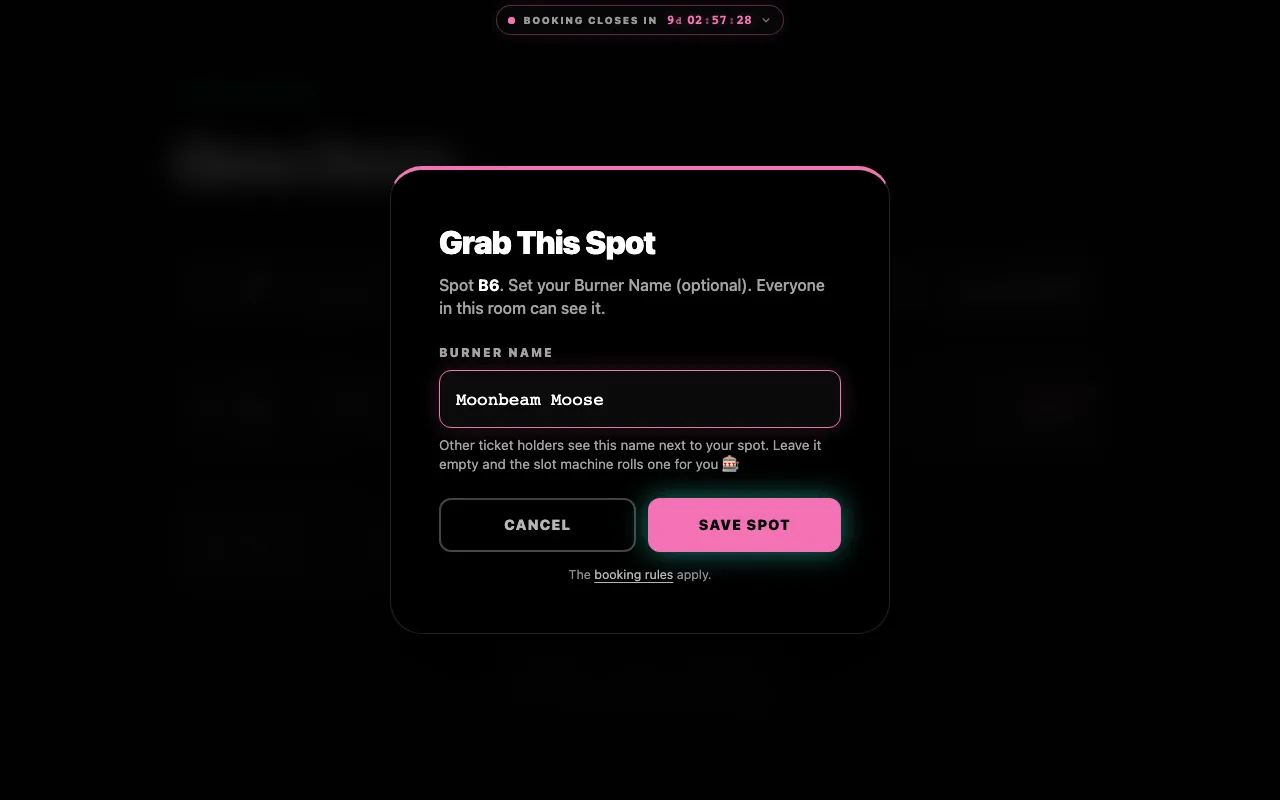
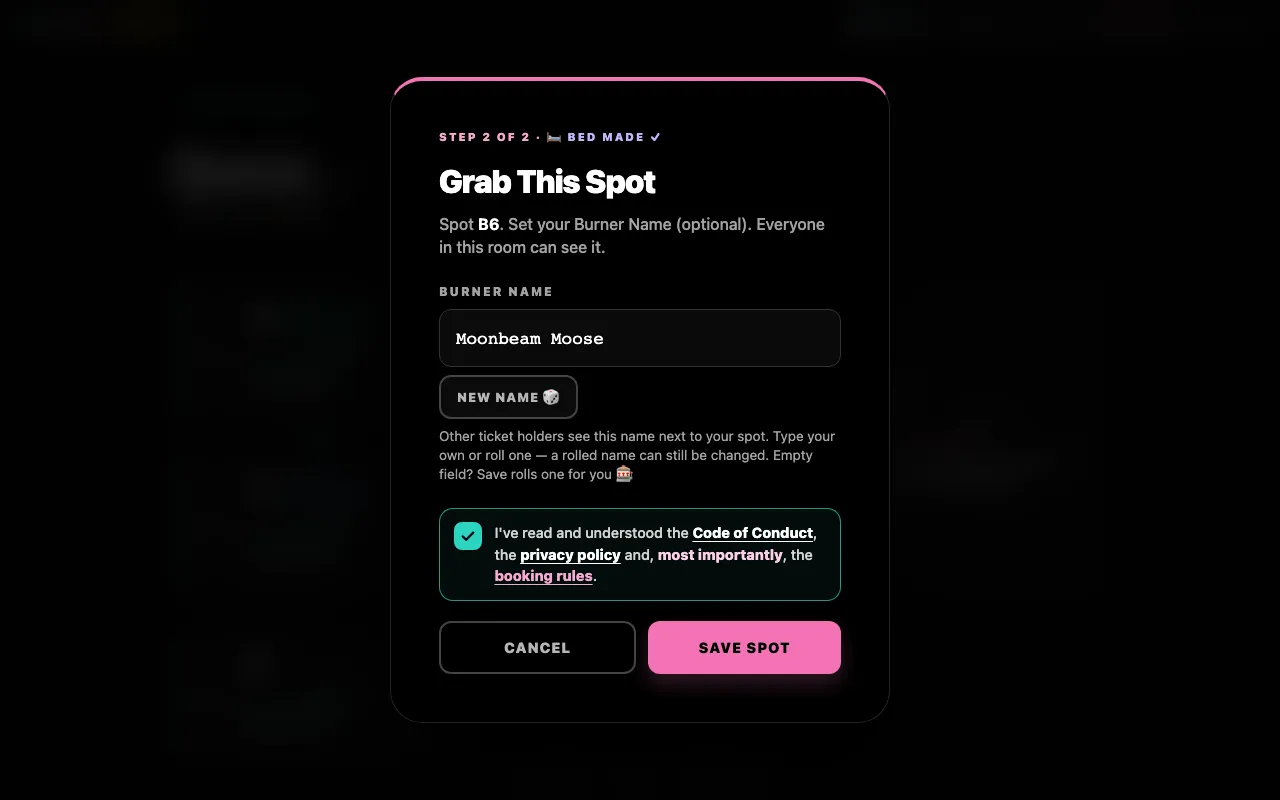
docs: make your bed and the rules tick in the guides
Guest guide: a "Bring your own bedding" note at the top, the flowchart, new
step 5 (make your bed) and step 6 (name, rules tick, Save Spot), the roulette's
check, the bedding line in confirmations and on the pass, and screenshots of
both steps. FAQ: what to bring, why every booking asks, and the reload message.
Admin: the bedding box in e-mails and Telegram (Message texts), the strip on
the booking pass. Reference: routes and the server-side check. README: feature
row.

Changed region(s): [[0.3125, 0.1562, 0.6875, 0.875], [0.3125, 0.0938, 0.6875, 0.125], [0.375, 0.0, 0.5938, 0.0312]]

diff --git a/docs/guide/booking.md b/docs/guide/booking.md
@@ -4,6 +4,9 @@ All you need is the **ticket code** from your Hamburn ticket. There is no accoun
 
 Beds come with **Indoor memberships** only. Camper memberships (camper or tent) don't include a bed and don't need CozyNights.
 
+> [!IMPORTANT] Bring your own bedding
+> Pillow and blanket are provided. Bring your own covers: a **bed sheet** for the mattress, a **duvet cover** for the blanket and a **pillowcase**. A sleeping bag is fine instead of the duvet cover; the bed sheet and the pillowcase are still a must. Every booking reminds you: you [make your bed](#make-your-bed) before the spot is yours.
+
 > [!NOTE] Booking opens and closes at set times
 > Before booking opens, the start page and the (still blurred) map count down to the start; <kbd>🗺 LOOK AROUND</kbd> lets you open houses and rooms already. You can already sign in with your code. While booking is open, the top bar of every booking page counts down to the close; after that, spots are final.
 
@@ -13,8 +16,8 @@ Beds come with **Indoor memberships** only. Camper memberships (camper or tent) 
 flowchart LR
   code["🎫 Ticket code"] --> map["🗺 Camp map"]
   map --> pick["🛖 House → 🚪 Room<br/>→ 🛏 free spot"]
-  pick --> name["✍ Burner name<br/>(optional)"] --> done["✅ Your Spot"]
-  map --> roulette["🎰 Destiny<br/>Roulette"] --> done
+  pick --> bed["🧺 Make your bed"] --> name["✍ Burner name (optional)<br/>☑ the rules"] --> done["✅ Your Spot"]
+  map --> roulette["🎰 Destiny<br/>Roulette"] --> bed
 ```
 
 ## Step by step
@@ -53,11 +56,23 @@ flowchart LR
 
    ![Room page with free, occupied and reserved spots](../assets/screenshots/guest-room-available.webp)
 
-5. **Pick a burner name and book**
+5. <a id="make-your-bed"></a>**Make your bed**
 
-   Type the name other guests should see on your bed (up to 80 characters), or press <kbd>Roll a name 🎲</kbd> and let the slot machine pick one (something like *Dusty Unicorn, Keeper of the Moop #562*). A rolled name lands in the field, where you can still change it; <kbd>New Name 🎲</kbd> rolls again. Leave the field empty and press <kbd>Save Spot</kbd> and the machine rolls one for you first. <kbd>Save Spot</kbd> books the spot. The same dialog opens when you tap your own spot later to change the name.
+   The booking window starts with your bed. The hostel's pillow, blanket and mattress lie on it bare, and your three covers wait in **Your bag**: a bed sheet, a duvet cover and a pillowcase. Tap each cover, or drag it onto the bed: the duvet cover goes on the blanket, the pillowcase on the pillow, and the sheet slips under everything. Drop one on the wrong piece and it hops back into the bag with a hint.
 
-   ![Booking dialog with the burner name field](../assets/screenshots/guest-booking-modal.webp)
+   When the bed is made, the window lists what to pack and <kbd>I'll pack them 🤝</kbd> takes you on. Pack them for real: pillow and blanket are provided, the covers are not. A sleeping bag is fine instead of the duvet cover; the bed sheet and the pillowcase are still a must.
+
+   ![Booking window, step 1: the bare bed and the three covers in your bag](../assets/screenshots/guest-booking-bed.webp)
+
+6. **Pick a burner name, tick the rules and book**
+
+   Type the name other guests should see on your bed (up to 80 characters), or press <kbd>Roll a name 🎲</kbd> and let the slot machine pick one (something like *Dusty Unicorn, Keeper of the Moop #562*). A rolled name lands in the field, where you can still change it; <kbd>New Name 🎲</kbd> rolls again. Leave the field empty and press <kbd>Save Spot</kbd> and the machine rolls one for you first.
+
+   Below the name, tick the box: *I've read and understood the Code of Conduct, the privacy policy and, most importantly, the booking rules.* The three links open in a new tab, so the booking window stays as it is. Without the tick, <kbd>Save Spot</kbd> waits and says why. With it, <kbd>Save Spot</kbd> books the spot.
+
+   ![Booking window, step 2: burner name, the rules box and Save Spot](../assets/screenshots/guest-booking-modal.webp)
+
+   Every new spot asks for both again, also after a release or a respin. Only when a booking didn't go through (someone was faster), the next spot you pick skips the bed and keeps the tick, until you reload the page. Nothing about it is stored. Tapping your own spot later to change its name opens just the name and <kbd>Save Spot</kbd>.
 
 </div>
 
@@ -121,7 +136,7 @@ Then the burner name that goes with the spot:
 - If your ticket already has a burner name, it is filled in. Keep it or change it.
 - Type your own name into **Your burner name**, or press <kbd>🎲</kbd> to roll one (something like *Cosmic Coyote #562*). A rolled name can still be changed.
 - <kbd>SPIN AGAIN 🎰</kbd> spins for another spot and keeps the name.
-- <kbd>BOOK IT 🌵</kbd> books the spot. With the name field empty, the first tap rolls a name; the next one books.
+- <kbd>BOOK IT 🌵</kbd> opens the same check as on the room page, over the machine: [make your bed](#make-your-bed), then *One last tick* for the rules, and <kbd>BOOK IT 🌵</kbd> in that window books the spot. With the name field empty, the first tap rolls a name; the next one opens the check.
 
 *Destiny Fulfilled!* Fireworks go up and your [booking pass](#your-booking-pass) prints out on the card, with <kbd>Visit My Room</kbd> and <kbd>Back to Map</kbd>.
 
@@ -165,7 +180,7 @@ Booking, moving and releasing a spot only work during Live Booking; the burner n
 
 When your spot is booked, changes or is released, CozyNights sends an e-mail to the **address of your ticket**. You don't enter it anywhere; your room page shows where confirmations go, shortened like `m•••@example.com`. It usually arrives within a minute; right after booking opens, when many people book at once, it can take a few minutes. If the crew ever has to change the camp layout and your spot goes with it, you hear about it the same way, so you can pick a new one.
 
-Every e-mail that shows your spot also brings your [booking pass](#your-booking-pass): its QR code as a picture right inside the e-mail, its link and its short code. That e-mail is all you need to show at arrival. Some mail apps also list the picture as an attachment; the link works just as well.
+Every e-mail that shows your spot also brings your [booking pass](#your-booking-pass): its QR code as a picture right inside the e-mail, its link and its short code. That e-mail is all you need to show at arrival. Some mail apps also list the picture as an attachment; the link works just as well. Right under the spot, a highlighted line says what to pack: your bed sheet, duvet cover and pillowcase. Telegram messages say it too.
 
 **Your room page** is the room that holds your spot: the room link in every confirmation takes you there, and so does <kbd>Visit My Room</kbd> on the roulette page. Every other house and room shows a *You already have a spot* note with your spot as a small ticket; tapping it opens your booking pass.
 
@@ -175,7 +190,7 @@ Once you hold a spot, your room page shows <kbd>🎫 Show booking pass</kbd>, ev
 
 <p align="center"><img src="../assets/screenshots/guest-pass.webp" alt="A booking pass on a phone: house, room, spot, burner name, QR code and pass code" width="300" /></p>
 
-<kbd>Save QR code</kbd> stores the QR code as a picture (on a phone it goes to your photos), <kbd>Camp map</kbd> takes you back to the map. Before the check-in the pass stays valid when you move to another spot; the crew always sees the spot your ticket holds right now. Release your spot, and the same link says that your ticket holds no spot at the moment. The pass code is not your ticket code: it can only show your booking, never change it.
+Under the QR code, **Bring your own covers** lists the bed sheet, the duvet cover and the pillowcase, for the moment you pack. <kbd>Save QR code</kbd> stores the QR code as a picture (on a phone it goes to your photos), <kbd>Camp map</kbd> takes you back to the map. Before the check-in the pass stays valid when you move to another spot; the crew always sees the spot your ticket holds right now. Release your spot, and the same link says that your ticket holds no spot at the moment. The pass code is not your ticket code: it can only show your booking, never change it.
 
 ### Updates on Telegram
 

diff --git a/docs/admin/notifications.md b/docs/admin/notifications.md
@@ -42,6 +42,7 @@ A guest hears from CozyNights when their spot changes:
 
 - **One message per change.** A move is one "changed" message, never "released" plus "booked". Changes within about ten seconds are combined, and two messages about the same ticket are at least two minutes apart. A guest who gives up their spot on the roulette (✨ *Leave No Trace & Respin*) keeps that message back for up to ten minutes, so the new spot arrives as one **changed** message; if they leave without booking a new one, the release is sent after all. A switch back to Staging with *Don't notify the guests* ticked silences the tickets whose spots it releases, a held message included. A ticket that already has no spot is not part of that release: its held message still reports the release when the hold runs out.
 - **The spot, and what kind of bed it is.** Every e-mail that shows the spot lists *House*, *Room* and *Spot*, and — when the crew wrote them down on the [camp layout](./camp-layout) — *Bed* (the kind of bed and, for a bunk bed, where the other level is: *Upper bunk · above B1*) and *Features* (what its room and its house offer, minus what doesn't reach the spot: *🔥 Heated · 🤫 Quiet zone*). Telegram messages carry the same as one 🛏 line right under the spot, the bot's `/pass` reply included; the line is the box *The bed* under *Telegram · in several messages* on <kbd>✉ Messages</kbd>. A spot nobody described gets neither the rows nor the line.
+- **What to bring, in every message that shows the spot.** Pillow and blanket are provided; the guest brings a bed sheet, a duvet cover and a pillowcase (a sleeping bag may replace the duvet cover). E-mails that show the spot say it in a highlighted box right under it (and its QR picture): booked, changed, swapped, passed on, booked by the crew. Telegram messages that show the spot carry it as a 🧺 line above the pass, the bot's *connected* message included (its `/pass` reply is just the pass). These are the boxes *Bedding to bring* under *E-mail · in every message* and *Telegram · in several messages* on <kbd>✉ Messages</kbd>; the booking window and the booking pass say the same (see [Booking a bed](../guide/booking#make-your-bed)).
 - **E-mail goes to the address of the ticket.** Guests never type an address: it comes with the [ticket import](#ticket-codes-with-e-mail-addresses). On their room page they see where confirmations go, shortened to `m•••@example.com`. Every e-mail that shows the spot offers what this server can do on top: **Telegram** (until the guest has connected a chat).
 - **Telegram is the guest's choice.** <kbd>Get updates on Telegram</kbd> is offered wherever a booking is confirmed: on the room page, on the roulette's *Destiny Fulfilled* card, on the booking pass and on the page **Updates on Telegram** (`/telegram`), which the confirmation e-mail links to. It opens a chat with the CozyNights bot; after <kbd>START</kbd> the bot confirms the current spot and sends every change from then on. <kbd>Turn off</kbd> there or `/stop` in the chat ends it. The link works once and for 30 minutes, and it always needs the ticket code first — a pass link is not enough, because the messages also tell the crew's decision on a special-needs request.
 - **The pass comes inside the e-mail.** Every e-mail that shows the spot — booked, changed, a ticket passed on with its spot, a special-needs spot, a swap done — carries the QR code of the [booking pass](./passes) as a picture, right under the spot and above the pass link and its code. The picture travels inside the e-mail, it isn't loaded from the server: it shows even when the mail app blocks remote images, and while the [pre-launch gate](../develop/deployment#pre-launch-gate) keeps the site closed. If the picture can't be made, the e-mail goes out without it, on time, with the link and the code as always. E-mails without a spot (released, requests, swap requests) have no picture.
@@ -88,7 +89,7 @@ Every sentence guests get — by e-mail, on Telegram and from the bot — can be
 ![Message texts: the boxes grouped by message, and the preview of a whole e-mail](../assets/screenshots/admin-messages.webp)
 
 - **Placeholders** in curly braces are filled in when the message is sent: `{name}`, `{spot}`, `{bed}`, `{before}`, `{roomUrl}`, `{mapUrl}`, `{requestUrl}`, `{passCode}`, `{passUrl}`, `{appUrl}`, `{telegramUrl}`, `{status}`, and for swap requests `{other}` (the other spot of the swap), `{until}` (when the request runs out) and `{swapUrl}`. Each box lists the ones its text may use; a text with any other placeholder can't be saved. Anything else in curly braces is sent as written. `{bed}` is the bed and what is at it in one line (*Lower bunk · below B2 · 🔥 Heated*), so the 🛏 line is only sent when there is something to say.
-- **The shape of a message stays.** Which lines a message has in which case (a spot booked by the crew, a request declined while the guest keeps their spot, …) is decided by the app, and so is the place of the QR picture (right under the spot); the texts are the sentences it puts together. That's why some sentences exist twice, for example *The crew could not offer you a special-needs spot* with and without *you keep this spot*.
+- **The shape of a message stays.** Which lines a message has in which case (a spot booked by the crew, a request declined while the guest keeps their spot, …) is decided by the app, and so is the place of the QR picture (right under the spot) and of the bedding box (under the picture); the texts are the sentences it puts together. That's why some sentences exist twice, for example *The crew could not offer you a special-needs spot* with and without *you keep this spot*.
 - **Line breaks stay**, in e-mails and Telegram messages alike. Texts are plain: no HTML, no Markdown, no links other than the placeholders. A text has at most 2,000 characters and can't be empty.
 - **English only, `[STAGING]` stays.** The label in front of subjects and messages is a server setting of the staging server (`COZY_ENV_LABEL`), not a text. Production never carries one: its compose file doesn't pass the setting on.
 - **The crew group hears about every change** (✏ *Message text changed*, ↩ *reset*), with the admin's name and the text's key; the audit log keeps it. Changed texts live in the collection `message_texts`, so they are in every backup; *Reset* deletes the record.

diff --git a/docs/reference/architecture.md b/docs/reference/architecture.md
@@ -159,12 +159,12 @@ erDiagram
 | `/` | everyone | Start page, ticket code sign-in |
 | `/map` | everyone | Camp map, blurred with countdown in staging; read-only after booking closed |
 | `/house/:id` | guests with a code | Rooms of a house with free spots |
-| `/room/:id` | guests with a code | Spots of a room, booking dialog |
-| `/random-bed` | guests with a code | Destiny Roulette, a slot machine for a random free spot; a guest with a spot sees it with the booking pass and can give it up with ✨ Leave No Trace (hold to sweep) and spin again |
+| `/room/:id` | guests with a code | Spots of a room, booking dialog: a new spot first asks to make the bed and to tick the rules (`$lib/booking-check`) |
+| `/random-bed` | guests with a code | Destiny Roulette, a slot machine for a random free spot; *Book it* opens the same check (make the bed, tick the rules); a guest with a spot sees it with the booking pass and can give it up with ✨ Leave No Trace (hold to sweep) and spin again |
 | `/special-needs` | guests with a code | Ask for a special-needs spot or a project's room, start or join a request group (an invite link `?group=` fills in the code and survives the sign-in), see the crew's answer and the group's burner names, leave the group, withdraw |
 | `/legal-notice` | everyone | Legal notice (Impressum), details from the server's `.env`; `/impressum` redirects here |
 | `/privacy` | everyone | Privacy policy; `/datenschutz` redirects here |
-| `/booking-rules` | everyone | Booking rules, linked from every booking dialog |
+| `/booking-rules` | everyone | Booking rules (bedding included), confirmed in every booking dialog |
 | `/pass/:code` | whoever has the link | Booking pass with QR code (`/pass/:code/qr.gif` and `…/qr.png` as images); signed-in admins also see the booking, the check-in and a Check in button |
 | `/telegram` | guests with a code | Updates on Telegram: connect the chat, see that it is on, turn it off. Confirmation e-mails link here |
 | `/docs/*` | everyone | The guest guide and FAQ |
@@ -197,7 +197,7 @@ sequenceDiagram
   participant App as SvelteKit app
   participant DB as PocketBase
   Guest->>App: Book spot B2 (form action)
-  App->>App: Phase live? Ticket code known?
+  App->>App: Phase live? Ticket code known?<br/>Bed made and rules ticked (a new spot)?
   App->>App: Queue behind other requests<br/>for this ticket and this spot
   App->>DB: Re-read the spot
   alt taken, locked or inactive
@@ -213,6 +213,7 @@ sequenceDiagram
 - **No double bookings.** Requests for the same ticket or the same spot run one after another, and availability is re-checked inside that queue. Two guests clicking the same bed at the same moment: exactly one wins.
 - **One ticket, one spot.** Even parallel requests from the same ticket end with a single booked spot.
 - **Claim first, then release.** If something fails midway, a guest keeps their old spot rather than ending up with none.
+- **Every new spot comes with the check.** The booking window sends `rulesConfirmed` and `beddingConfirmed` with the booking: the guest made the bed and ticked the rules. Without both, the room page and the roulette refuse a new spot before touching it (*Before a spot is yours, make your bed…*); a new burner name for the spot the ticket holds needs neither, and so do the crew's bookings. Nothing about it is stored.
 - **Single instance.** The queue lives in the app process, which matches the deployment of exactly one app container per environment.
 - **A booking window without a scheduler.** The phase is *the one set by hand, unless the armed timer's opening or closing time has passed* (`src/lib/booking-phase.ts`). It is evaluated on every request, so nothing has to run at the opening or closing moment; open pages reload their data when their countdown ends. Admins enter the times in Europe/Berlin time. PocketBase's notification loop only *announces* a reached time to the crew group.
 
@@ -227,7 +228,7 @@ hamburn-cozynights/                 repository root
     │   ├── hooks.server.ts         sessions and the admin gate for every request
     │   ├── routes/                 guest pages, /admin, OAuth callback
     │   └── lib/
-    │       ├── components/         map, markers, slot machines, Leave No Trace spell, effigy title, admin widgets
+    │       ├── components/         map, markers, slot machines, Leave No Trace spell, the booking check (make your bed, rules box), effigy title, admin widgets
     │       ├── fx/                 cursor trail, booking fireworks, burning effigy title, glitter sweep, roulette sounds
     │       └── server/             booking, inventory, settings, admin auth, crypto
     ├── pb_migrations/              database schema and API rules

diff --git a/docs/admin/passes.md b/docs/admin/passes.md
@@ -38,7 +38,7 @@ The rules that keep the states consistent:
 - **On their room page:** <kbd>🎫 Show booking pass</kbd>, as soon as they hold a spot. With an approved special-needs request, <kbd>🎫 Booking pass</kbd> on the request page as well.
 - **On every other house and room page:** a small ticket with their spot in the *You already have a spot* note; tapping it opens the pass. After booking closed, the map's panel shows the same ticket.
 - **In every confirmation:** the e-mail shows the pass's QR code as a picture inside the e-mail, next to the link to the pass and its code. The picture travels with the e-mail rather than being loaded from the server, so it shows even when the mail app blocks remote images. The Telegram message carries the QR code as a photo, with the link and the code.
-- **The pass page** shows house, room, spot and burner name, the QR code and the code. When the crew wrote them down in the [camp layout](./camp-layout), it also shows the bed — the kind of bed, and for a bunk bed which level it is and where the other one is, e.g. *Upper bunk · above B1* — and the features at the spot, e.g. *🔥 Heated · 🤫 Quiet zone* (its room's and house's, minus what doesn't reach the spot — an upper bunk is never ♿). Nothing is guessed: a detail nobody filled in is simply left out. <kbd>Save QR code</kbd> stores the QR code as an image named `cozynights-pass-<code>.gif` (on a phone it goes to the photos); a screenshot works just as well. <kbd>Camp map</kbd> leads back to the map. A link typed without dashes or in lower case works too. If the ticket holds no spot right now, the page says so instead: *This ticket holds no spot right now. Pick one on the map while booking is open.*
+- **The pass page** shows house, room, spot and burner name, the QR code and the code. When the crew wrote them down in the [camp layout](./camp-layout), it also shows the bed — the kind of bed, and for a bunk bed which level it is and where the other one is, e.g. *Upper bunk · above B1* — and the features at the spot, e.g. *🔥 Heated · 🤫 Quiet zone* (its room's and house's, minus what doesn't reach the spot — an upper bunk is never ♿). Nothing is guessed: a detail nobody filled in is simply left out. Under the code, **Bring your own covers** lists what every guest packs — bed sheet, duvet cover, pillowcase — with *Pillow and blanket are provided* and the sleeping-bag note, in print too. <kbd>Save QR code</kbd> stores the QR code as an image named `cozynights-pass-<code>.gif` (on a phone it goes to the photos); a screenshot works just as well. <kbd>Camp map</kbd> leads back to the map. A link typed without dashes or in lower case works too. If the ticket holds no spot right now, the page says so instead: *This ticket holds no spot right now. Pick one on the map while booking is open.*
 - **One pass per ticket.** It stays the same when the guest moves to another spot or releases theirs: the check always shows the spot the ticket holds *right now*.
 - **On Telegram, if they want:** the bot sends the pass with its QR code as a picture and every change from then on; <code>/pass</code> shows it again. See [Notifications](./notifications#guests-booking-confirmations).
 

diff --git a/docs/guide/faq.md b/docs/guide/faq.md
@@ -22,6 +22,18 @@ After many wrong codes from the same network, CozyNights pauses sign-in attempts
 CozyNights couldn't reach its database for a moment. Your code is fine. Try again shortly.
 :::
 
+::: details What bedding do I need to bring?
+Pillow and blanket are provided. Bring your own covers: a **bed sheet** for the mattress, a **duvet cover** for the blanket and a **pillowcase**. A sleeping bag is fine instead of the duvet cover; the bed sheet and the pillowcase are still a must. Your booking pass and every e-mail about your spot say it again, for when you pack.
+:::
+
+::: details Why do I have to make my bed every time I book?
+Many guests are at Hamburn for the first time, and a bed without covers is a cold night. So every booking starts with making your bed and ends with a tick that you have read the Code of Conduct, the privacy policy and the booking rules — also when you move to another spot. Nothing about it is stored. If a booking didn't go through because someone was faster, the next spot you pick keeps your made bed and your tick, until you reload the page.
+:::
+
+::: details "Before a spot is yours, make your bed and confirm the rules in the booking window. Don't see them? Reload the page."
+The page was opened before the booking window had the bed and the rules box (for example a tab left open since before an update). Reload the page, then book again: the window shows both.
+:::
+
 ::: details A spot says nothing about its bed, or my wish finds no spot
 CozyNights only shows what the crew filled in: an empty spot card means *nobody said*, not *no bed*. The wish chips in the top bar (on the map and the roulette) are strict for the same reason — they only keep spots the crew actually described, so nothing is promised that isn't written down; a wish no spot answers isn't even offered as a chip. Ask the crew if a detail matters to you, and use the [special-needs request](./special-needs) if you need a particular kind of spot.
 :::

diff --git a/README.md b/README.md
@@ -31,6 +31,7 @@ Ticket holders pick their own bed on the Hamburn camp map. The crew builds the c
 | 🎫  | **One ticket, one bed**      | No accounts or passwords for guests. The ticket code is the key, and it holds exactly one spot.        |
 | 🎰  | **Destiny Roulette**         | A neon slot machine for the undecided: pull the lever for a random free bed, then keep, type or roll a burner name; booked guests can leave no trace and respin. |
 | 🎆  | **Booking fireworks**        | Neon rockets rise from your new spot and burst like the cursor does; a fire finale ends the show.      |
+| 🧺  | **Make your bed**            | Every booking starts with dressing a neon bed in your own covers (pillow and blanket are provided) and a tick for the rules; the pass and every confirmation repeat what to pack. |
 | 🛠  | **Staging, Live, Closed**    | The crew builds the layout in staging; a booking window opens and closes booking by timer, and closing freezes it. |
 | 🔐  | **Google Workspace sign-in** | Admins use their `@mauersegler.art` account. Newcomers request access, a superuser approves.           |
 | 💾  | **Layout templates**         | Export the camp as JSON; a file is compared with the camp and only the changes you pick are applied.   |
